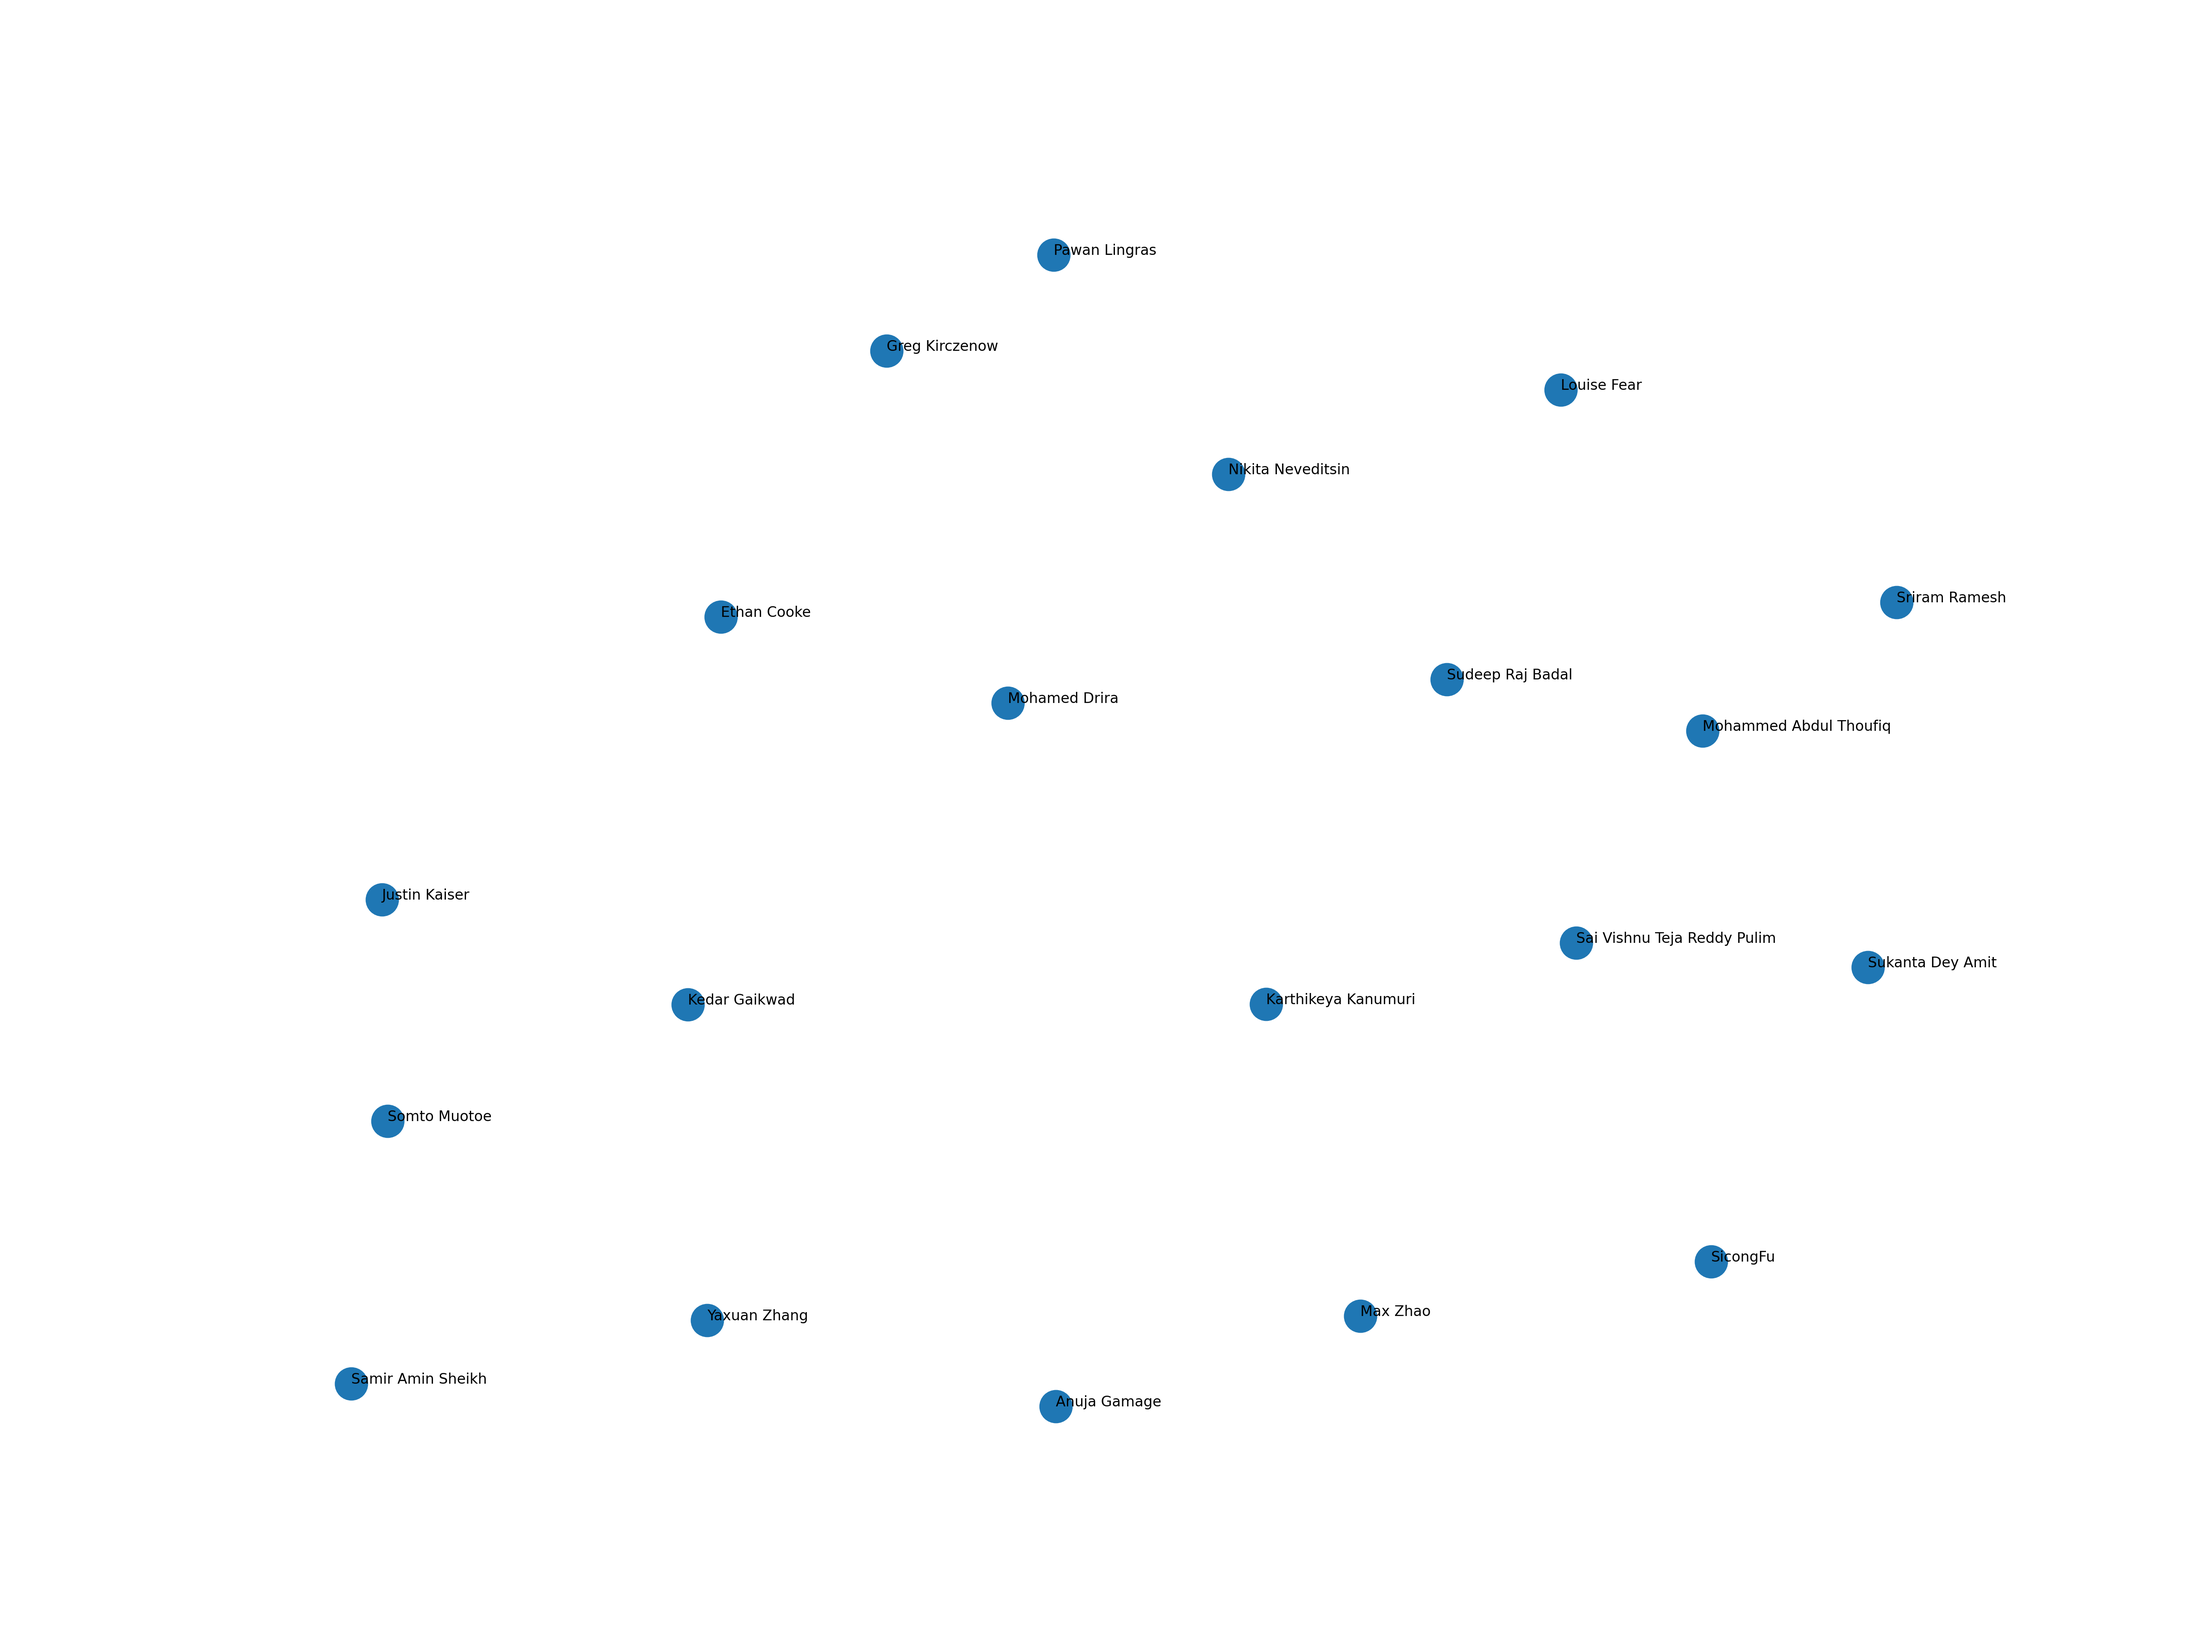
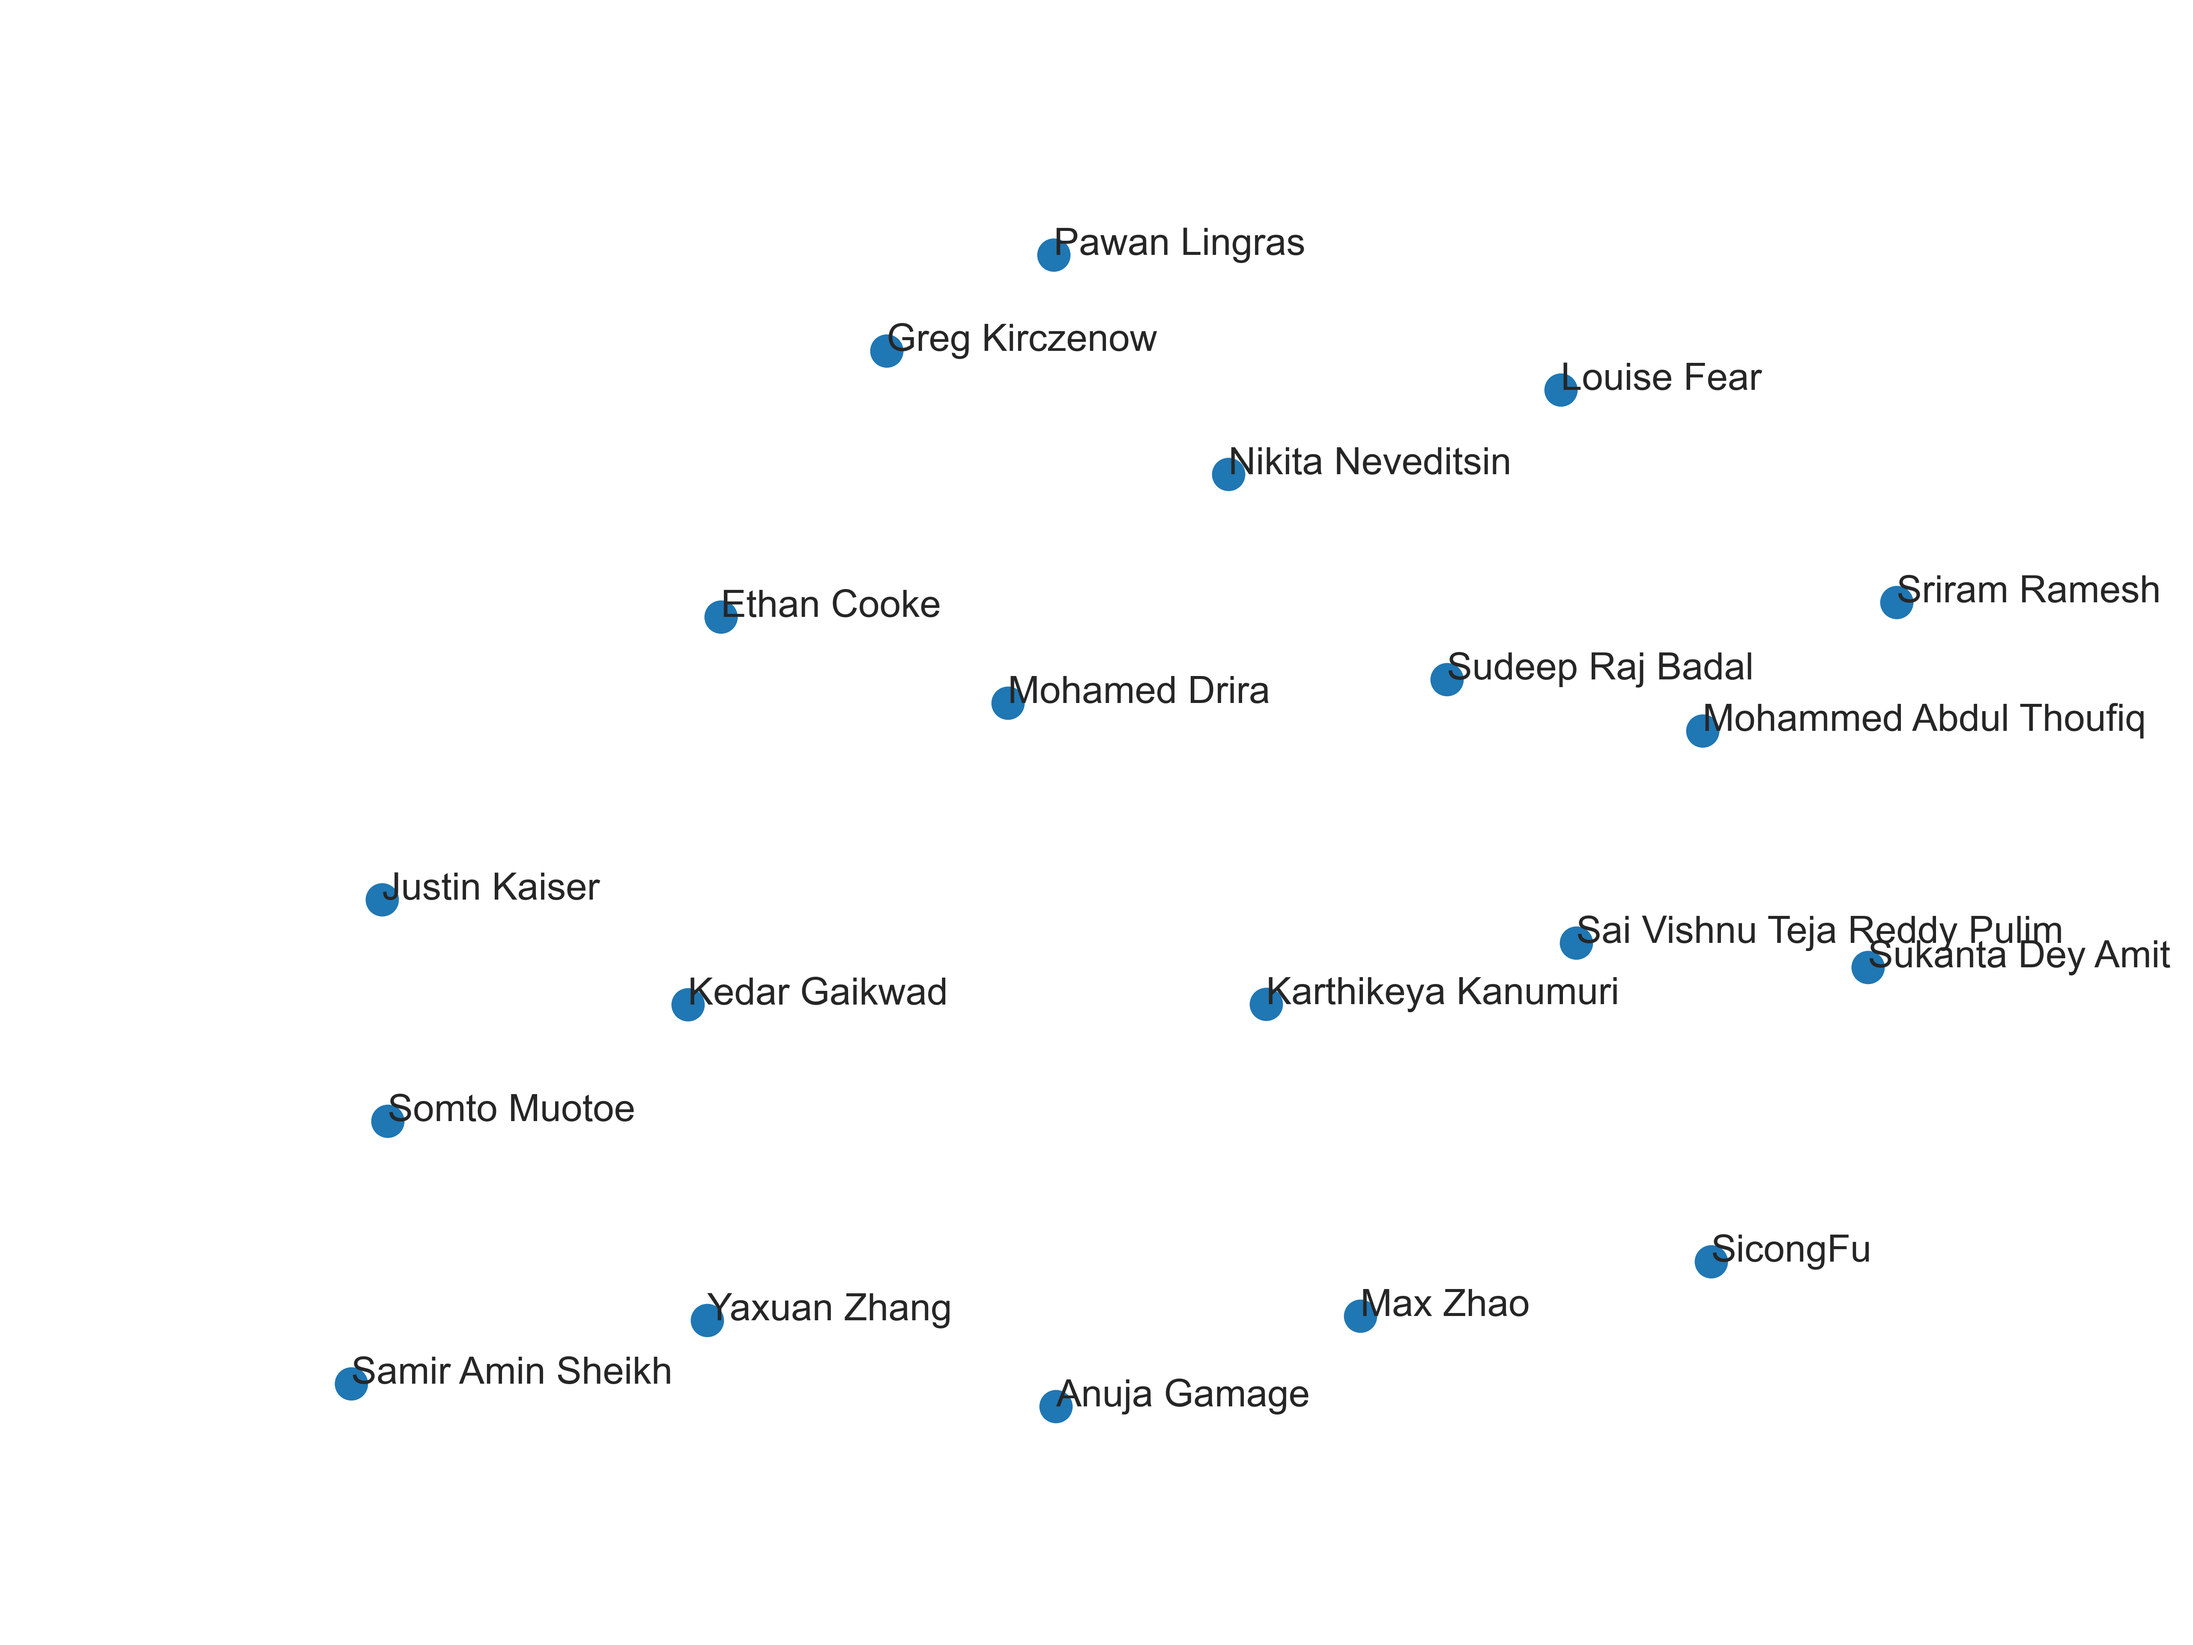
Fixes #9 updated the font size to 8 in both the notebook and the python script.

diff --git a/visualizer.py b/visualizer.py
@@ -52,7 +52,7 @@ label = list(person_embeddings.keys())
 # Plotting and annotating data points
 plt.scatter(x,y)
 for i, name in enumerate(label):
-    plt.annotate(name, (x[i], y[i]), fontsize="3")
+    plt.annotate(name, (x[i], y[i]), fontsize="8")
 
 # Clean-up and Export
 plt.axis('off')
